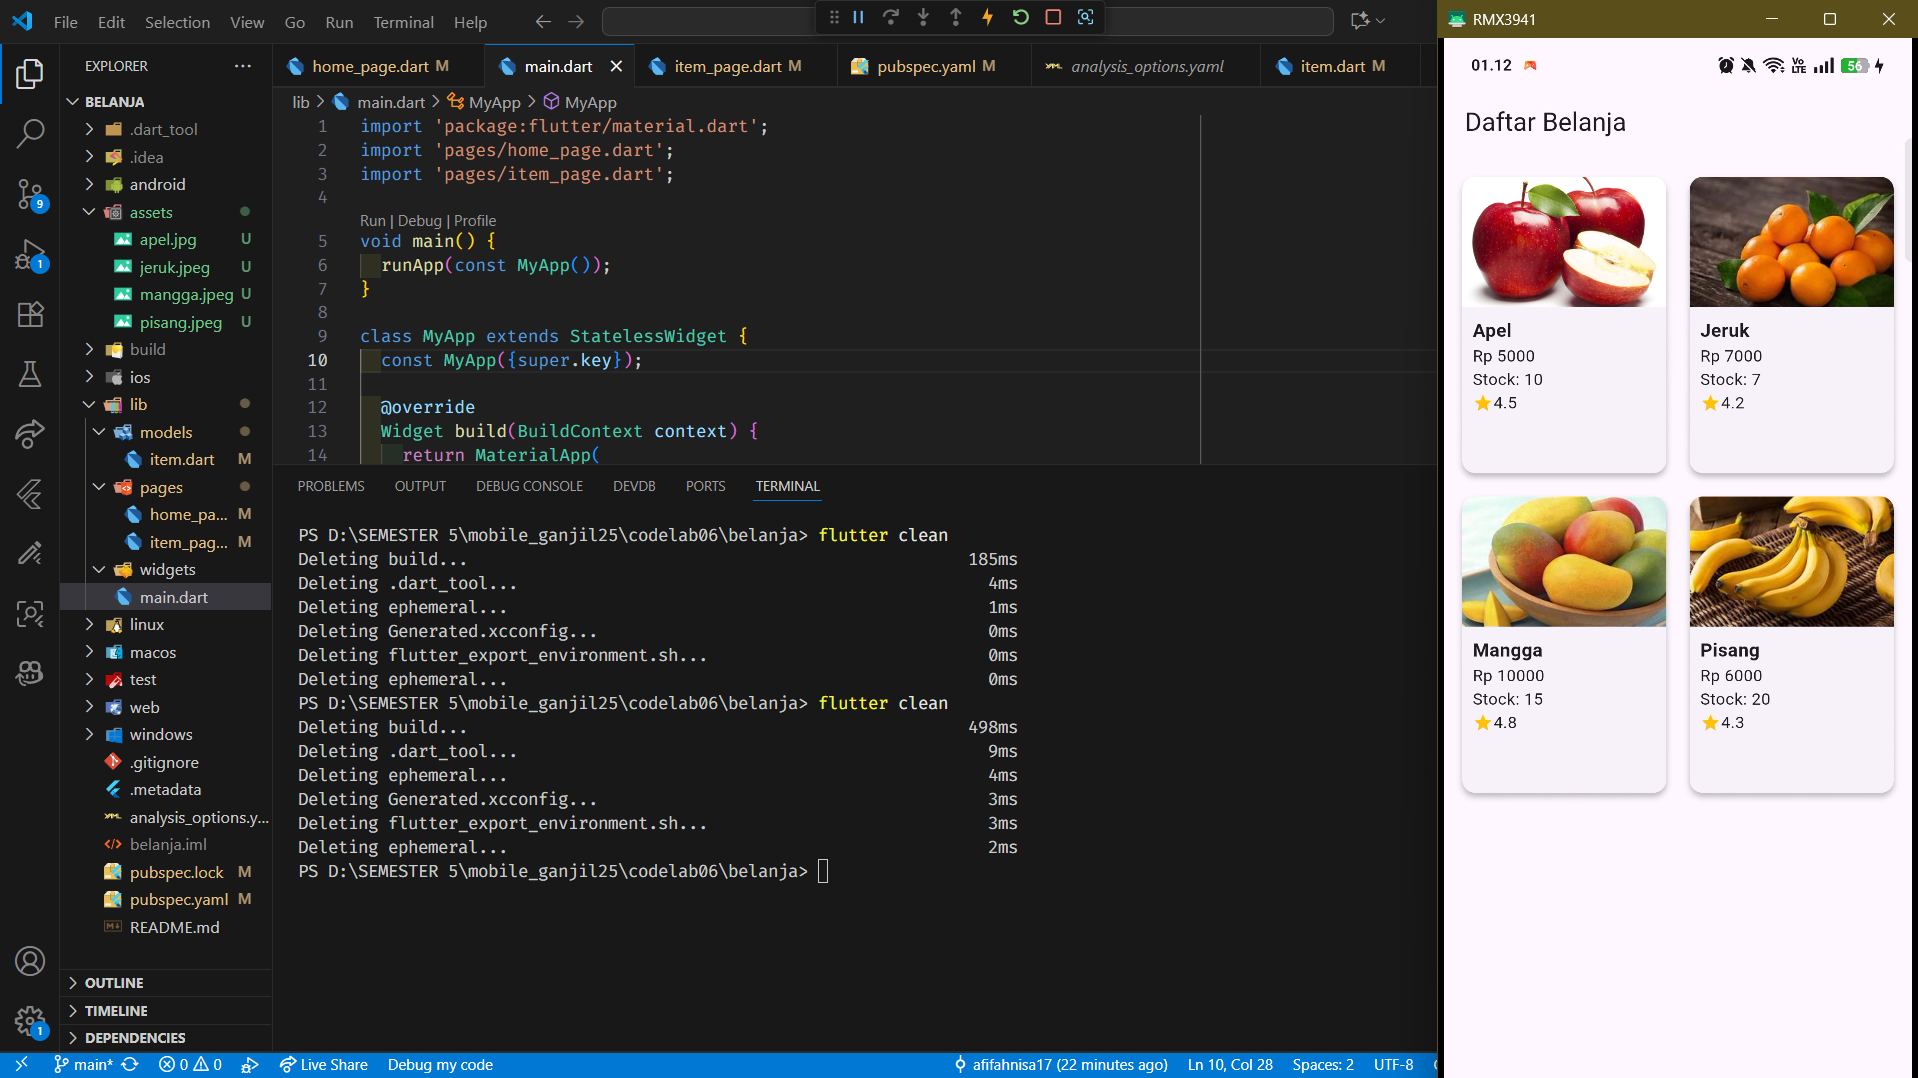
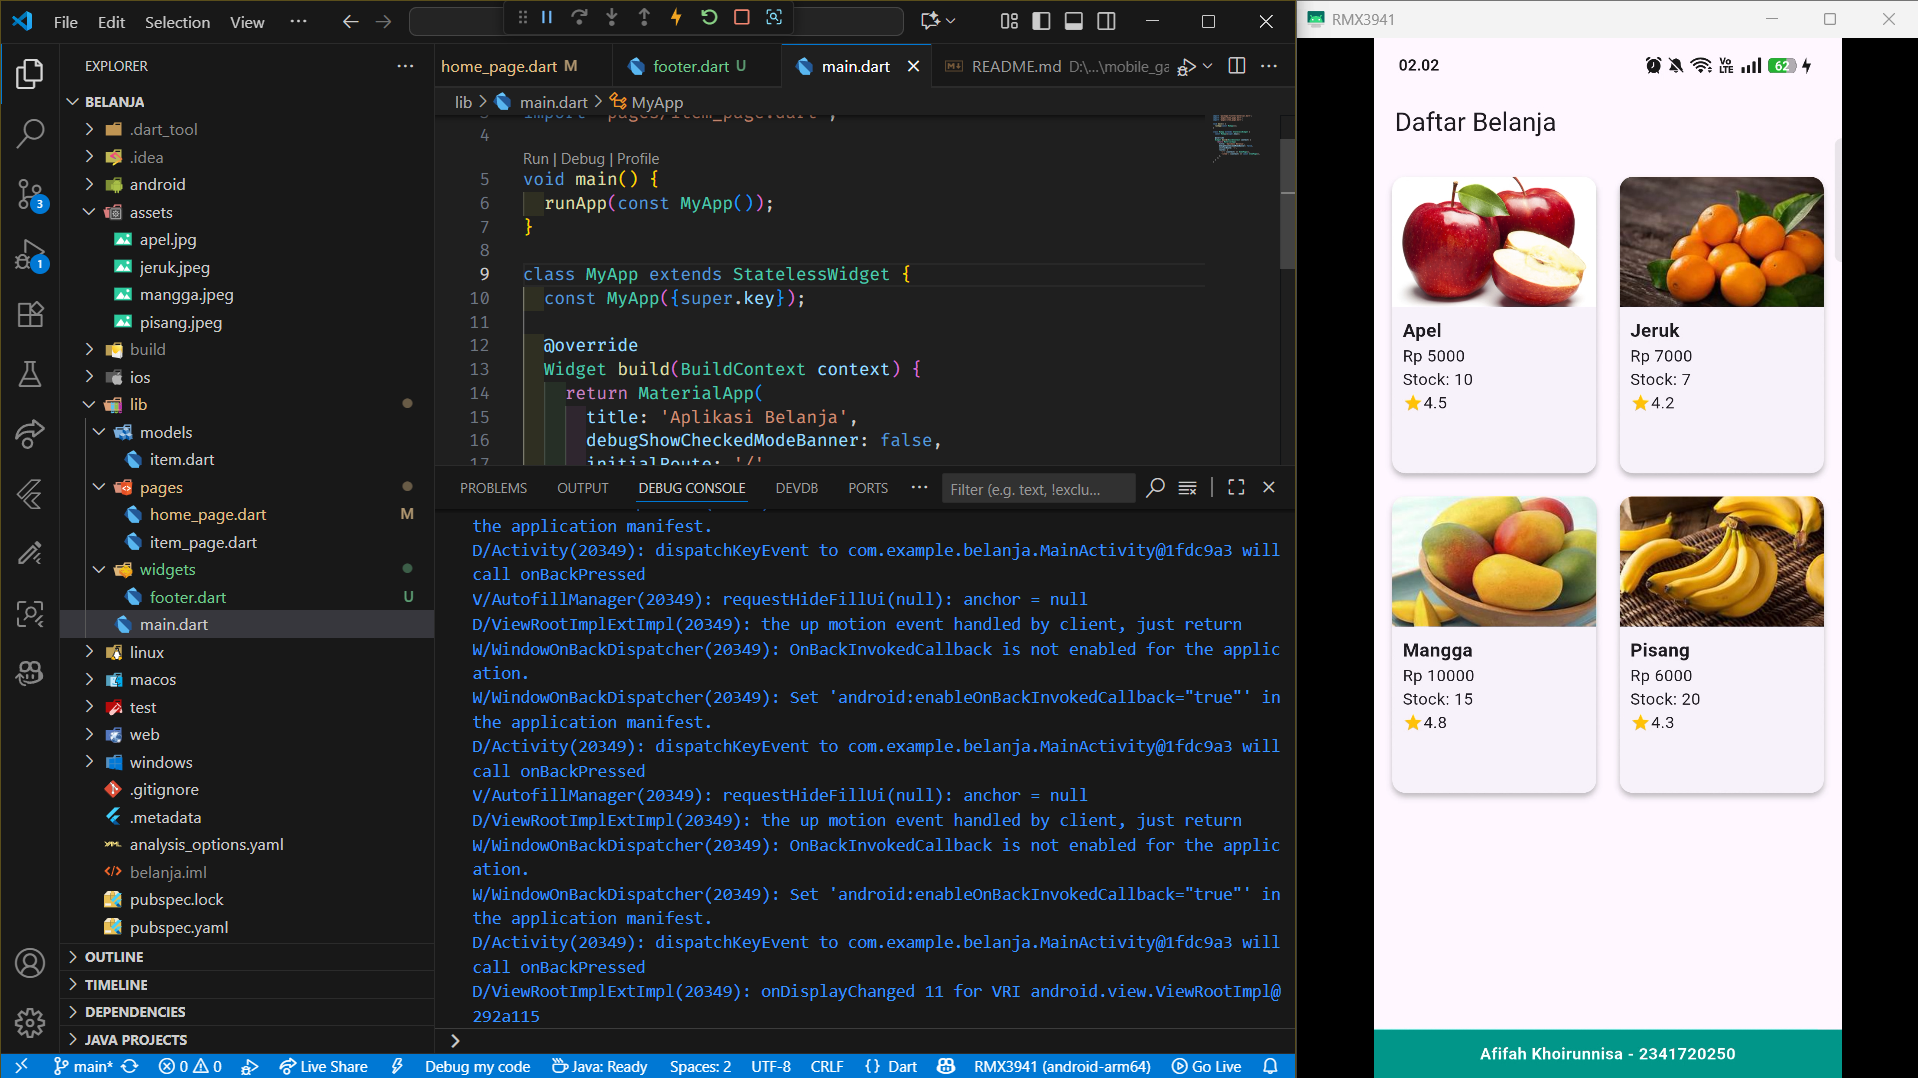
add tugas 2 and update readme

diff --git a/codelab06/belanja/lib/pages/home_page.dart b/codelab06/belanja/lib/pages/home_page.dart
@@ -1,3 +1,4 @@
+import 'package:belanja/widgets/footer.dart';
 import 'package:flutter/material.dart';
 import '../models/item.dart';
 
@@ -39,10 +40,11 @@ class HomePage extends StatelessWidget {
   Widget build(BuildContext context) {
     return Scaffold(
       appBar: AppBar(title: const Text("Daftar Belanja")),
+      
       body: GridView.builder(
         padding: const EdgeInsets.all(10),
         gridDelegate: const SliverGridDelegateWithFixedCrossAxisCount(
-          crossAxisCount: 2,          // 2 kolom
+          crossAxisCount: 2, // 2 kolom
           crossAxisSpacing: 10,
           mainAxisSpacing: 10,
           childAspectRatio: 0.7,
@@ -57,15 +59,17 @@ class HomePage extends StatelessWidget {
             child: Card(
               elevation: 3,
               shape: RoundedRectangleBorder(
-                  borderRadius: BorderRadius.circular(10)),
+                borderRadius: BorderRadius.circular(10),
+              ),
               child: Column(
                 crossAxisAlignment: CrossAxisAlignment.start,
                 children: [
-                  // Hero untuk gambar produk
                   Hero(
                     tag: item.name,
                     child: ClipRRect(
-                      borderRadius: const BorderRadius.vertical(top: Radius.circular(10)),
+                      borderRadius: const BorderRadius.vertical(
+                        top: Radius.circular(10),
+                      ),
                       child: Image.asset(
                         item.image,
                         height: 100,
@@ -86,7 +90,8 @@ class HomePage extends StatelessWidget {
                         Text("Stock: ${item.stock}"),
                         Row(
                           children: [
-                            const Icon(Icons.star, size: 16, color: Colors.amber),
+                            const Icon(Icons.star,
+                                size: 16, color: Colors.amber),
                             Text(item.rating.toString()),
                           ],
                         ),
@@ -99,6 +104,8 @@ class HomePage extends StatelessWidget {
           );
         },
       ),
+
+      bottomNavigationBar: const AppFooter(),
     );
   }
 }

diff --git a/codelab06/belanja/lib/widgets/footer.dart b/codelab06/belanja/lib/widgets/footer.dart
@@ -1,0 +1,22 @@
+import 'package:flutter/material.dart';
+
+class AppFooter extends StatelessWidget {
+  const AppFooter({super.key});
+
+  @override
+  Widget build(BuildContext context) {
+    return Container(
+      color: Colors.teal,
+      padding: const EdgeInsets.all(10),
+      child: const Text(
+        "Afifah Khoirunnisa - 2341720250", 
+        style: TextStyle(
+          color: Colors.white,
+          fontSize: 14,
+          fontWeight: FontWeight.bold,
+        ),
+        textAlign: TextAlign.center,
+      ),
+    );
+  }
+}

diff --git a/codelab06/README.md b/codelab06/README.md
@@ -27,27 +27,56 @@
 ## Praktikum 1: Membangun Layout di Flutter
 **Berikut adalah implementasi title row dalam flutter**
 <img src="../codelab06/img/prak1.png">
+Pada kesempatan ini, saya membuat adanya title row yang didalamnya terdapat 2 baris dan 2 kolom
+- Baris pertama → Nama tempat di kiri, ikon bintang + angka di kanan
+- Baris kedua → Lokasi
 
-## PRAKTIKUM 2
+## Praktikum 2: Implementasi button row
+**Berikut adalah implementasi button row dalam flutter**
 <img src="../codelab06/img/prak2.png">
 
-## PRAKTIKUM 3
+## Praktikum 3: Implementasi text section
+**Berikut adalah implementasi text section dalam flutter**
 <img src="../codelab06/img/prak3.png">
 
-## PRAKTIKUM 4
+## Praktikum 4: Implementasi image section
+**Berikut adalah implementasi image section dalam flutter**
 <img src="../codelab06/img/prak4.png">
 
-## TUGAS PRAKTIKUM 1
+## Tugas Praktikum 1
+Pada tugas praktikum 1 kali ini, saya membuat layout mengenai makanan beserta rating dan penjelasannya.
 <img src="../codelab06/img/tugas1.png">
 
 <img src="../codelab06/img/tugas1-2.png">
 
-## PRAKTIKUM 5
+## Praktikum 5: Membangun Navigasi di Flutter
+Output dari praktikum ini adalah membangun aplikasi multi halaman menggunakan list view.
 <img src="../codelab06/img/prak5.png">
 
 <img src="../codelab06/img/prak5-2.png">
 
 ## TUGAS PRAKTIKUM 2
+1. **Untuk melakukan pengiriman data ke halaman berikutnya, cukup menambahkan informasi arguments pada penggunaan Navigator. Perbarui kode pada bagian Navigator menjadi seperti berikut.**
+
+```dart
+Navigator.pushNamed(context, '/item', arguments: item);
+```
+
+Jadi fungsinya berfungsi untuk membuka halaman /item sambil membawa data item.
+
+2. **Pembacaan nilai yang dikirimkan pada halaman sebelumnya dapat dilakukan menggunakan ModalRoute. Tambahkan kode berikut pada blok fungsi build dalam halaman ItemPage. Setelah nilai didapatkan, anda dapat menggunakannya seperti penggunaan variabel pada umumnya. (https://docs.flutter.dev/cookbook/navigation/navigate-with-arguments)**
+
+```dart
+final itemArgs = ModalRoute.of(context)!.settings.arguments as Item;
+```
+
+Baris ini dipakai untuk mengambil data (arguments) yang dikirim lewat Navigator.pushNamed.
+
+3. **Menggunakan grid view**
+4. **Mengimplementasikan hero widget**
+ 5. **Sesuaikan dan modifikasi tampilan sehingga menjadi aplikasi yang menarik. Selain itu, pecah widget menjadi kode yang lebih kecil. Tambahkan Nama dan NIM di footer aplikasi belanja Anda.**
+ 
+**Berikut output akhirnya:**
 <img src="../codelab06/img/tugas2.png">
 
 <img src="../codelab06/img/tugas2-2.png">
